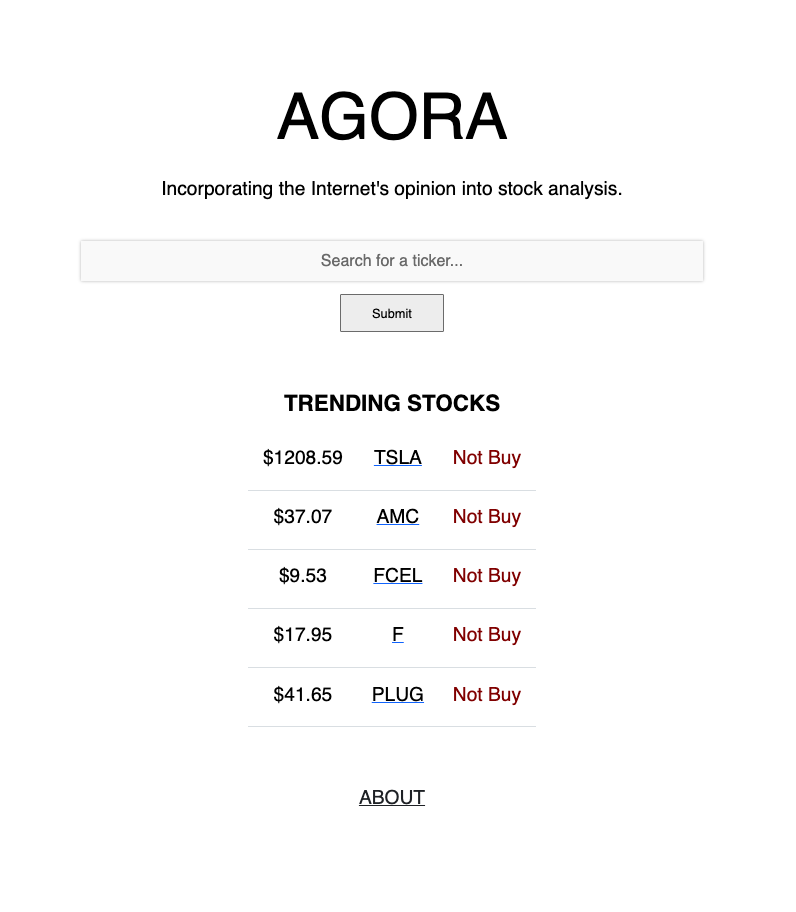
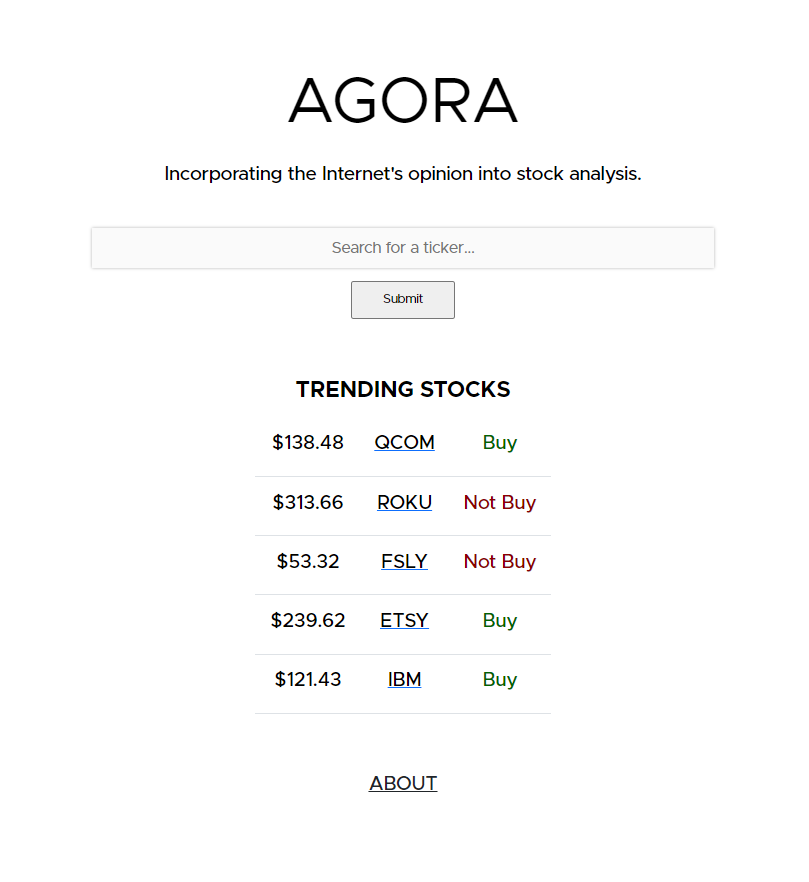
updated workflow; added screenshots with fixed fonts

diff --git a/Model_Training/workflow.py b/Model_Training/workflow.py
@@ -2,6 +2,11 @@ import pandas as pd
 import numpy as np
 import pickle
 import os
+import matplotlib.pyplot as plt
+import seaborn as sns
+from sklearn import metrics
+from sklearn.model_selection import train_test_split
+
 pd.set_option("display.max_rows", None, "display.max_columns", None)
 
 
@@ -68,9 +73,25 @@ def generate_predictions():
     training_rows['convo_polarity'] = training_rows['convo_polarity'] * 2
 
     x_total = training_rows[[x for x in training_rows.columns if x not in ['Buy', 'Symbol']]]
+    y_total = training_rows["Buy"]
+
+    X_train, X_test, y_train, y_test = train_test_split(x_total, y_total, test_size=0.33, random_state=42)
 
     # get the predictions for all stocks with headlines/convos
     predictions = lr_model.predict(x_total)
+
+    y_predictions = lr_model.predict(X_test)
+    test_acc_score = metrics.accuracy_score(y_test, y_predictions)
+
+    # create a confusion matrix
+    cm = metrics.confusion_matrix(y_total, predictions)
+    plt.figure(figsize=(9, 9))
+    sns.heatmap(cm, annot=True, fmt=".1f", linewidths=.5, square=True, cmap='Blues_r')
+    plt.ylabel('Actual Ratings')
+    plt.xlabel('Predicted Ratings')
+    all_sample_title = 'Accuracy Score: {0}'.format(test_acc_score)
+    plt.title(all_sample_title, size=15)
+    plt.show()
 
     training_rows["agora_pred"] = predictions
 
